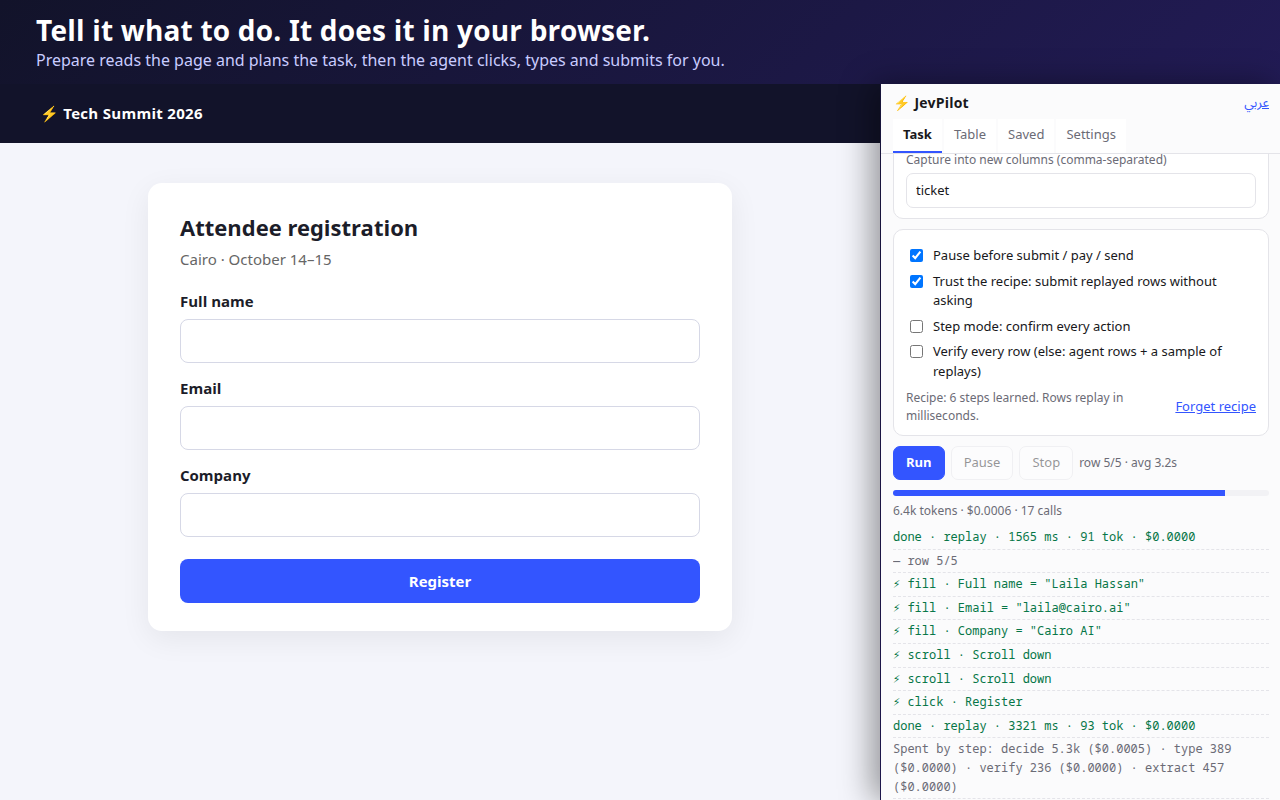
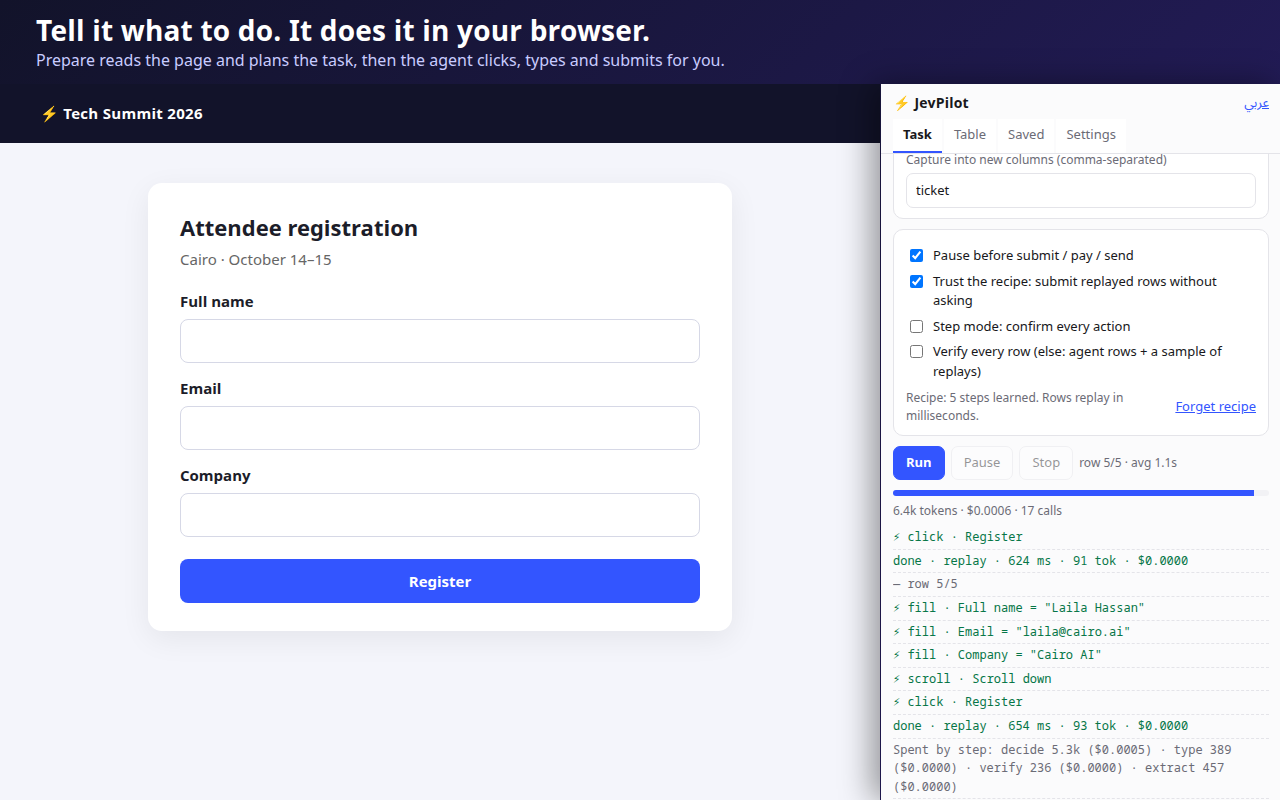
Add the brain: an orchestrator with full browser tools on top of the hands
- brain.js: plans, keeps notes, and drives the browser with 22 validated tools
  (search, go, tabs, back, act → hands brief, read, query, scroll, press, hover,
  look/vision, network, console, extract, note, download, save_pdf, upload,
  ask_user, answer); reviewer before answering; escalation to a stronger model
  for one turn; cost cap with a wrap-up answer
- eyes.js: read-only, code-owned DOM queries (links, tables, headings, forms,
  prices, meta, find) and full-page text including same-origin frames
- browser.js: visible cursor on the active tab, keyboard, hover, drag, dialogs
  (irreversible confirms dismissed), popups, network/console recording,
  screenshots, PDF, uploads; no in-page timers (background tabs were throttled
  to 1 s per step: replay row 5-7 s → 0.45 s)
- snapshot.js: controls inside open shadow roots and same-origin iframes
- agent.js: step budget, stop reasons, card-field guard; submit guard only on
  short button/link names (a "fees may apply" tab no longer triggers it)
- panel: free-form requests run the brain; ask/file/script cards; answer card
- store build ships DEV_FEATURES=false; listing and privacy updated; v1.1.0
- dev/: real-Chrome e2e of every capability, live-run and timing drivers

Live: HN research 56 s $0.027; Google Flights cheapest CAI→DXB 54 s $0.024.
Tests: 37 JS + 32 Python.

Changed region(s): [[0.6875, 0.6562, 0.9375, 0.8438], [0.7812, 0.875, 0.9375, 0.9375]]

diff --git a/privacy.html b/privacy.html
@@ -31,10 +31,11 @@
   <h2>What is sent, and to whom</h2>
   <ul>
     <li><b>To the AI provider you configure</b> (OpenRouter by default, or TypeSafe if you add its key), using your own API key:
-      the visible text and controls of the page being automated, your task instructions, and, when a field's value must be
-      inferred, the relevant values from your task or table. This is needed to decide each step and to verify results.
+      the text and controls of the page being automated (and a screenshot of that tab when the agent needs to look at it),
+      your task instructions, and, when a field's value must be inferred, the relevant values from your task or table. This is needed to decide each step and to verify results.
       That provider's own privacy policy governs what it does with the data.</li>
     <li><b>To the websites you automate</b>: the clicks and values you asked the extension to enter, as if you had typed them.</li>
+    <li><b>To your Downloads folder</b>: only files you or your task asked to save (PDFs, downloads, result files).</li>
   </ul>
   <p>Nothing else is sent anywhere. There is no analytics, tracking, advertising or sale of data.</p>
   <h2>What is never read</h2>
@@ -57,7 +58,7 @@
   <h2>إيه اللي بيتبعت ولمين</h2>
   <ul>
     <li><b>لمزوّد الذكاء الاصطناعي اللي انت اخترته</b> (OpenRouter افتراضياً، أو TypeSafe لو ضفت مفتاحه) بمفتاحك انت: النص الظاهر وعناصر
-      الصفحة اللي بيتم تشغيلها، وتعليمات مهمتك، ولو قيمة خانة محتاجة استنتاج، القيم المرتبطة بيها من مهمتك أو جدولك. ده لازم عشان
+      الصفحة اللي بيتم تشغيلها (ولقطة شاشة للتاب لما الوكيل يحتاج يشوفه)، وتعليمات مهمتك، ولو قيمة خانة محتاجة استنتاج، القيم المرتبطة بيها من مهمتك أو جدولك. ده لازم عشان
       يقرّر كل خطوة ويراجع النتيجة، والمزوّد نفسه بتحكمه سياسة الخصوصية بتاعته.</li>
     <li><b>للمواقع اللي بتشغّل عليها المهمة</b>: الضغطات والقيم اللي طلبت من الإضافة تدخلها، كأنك كتبتها بنفسك.</li>
   </ul>
